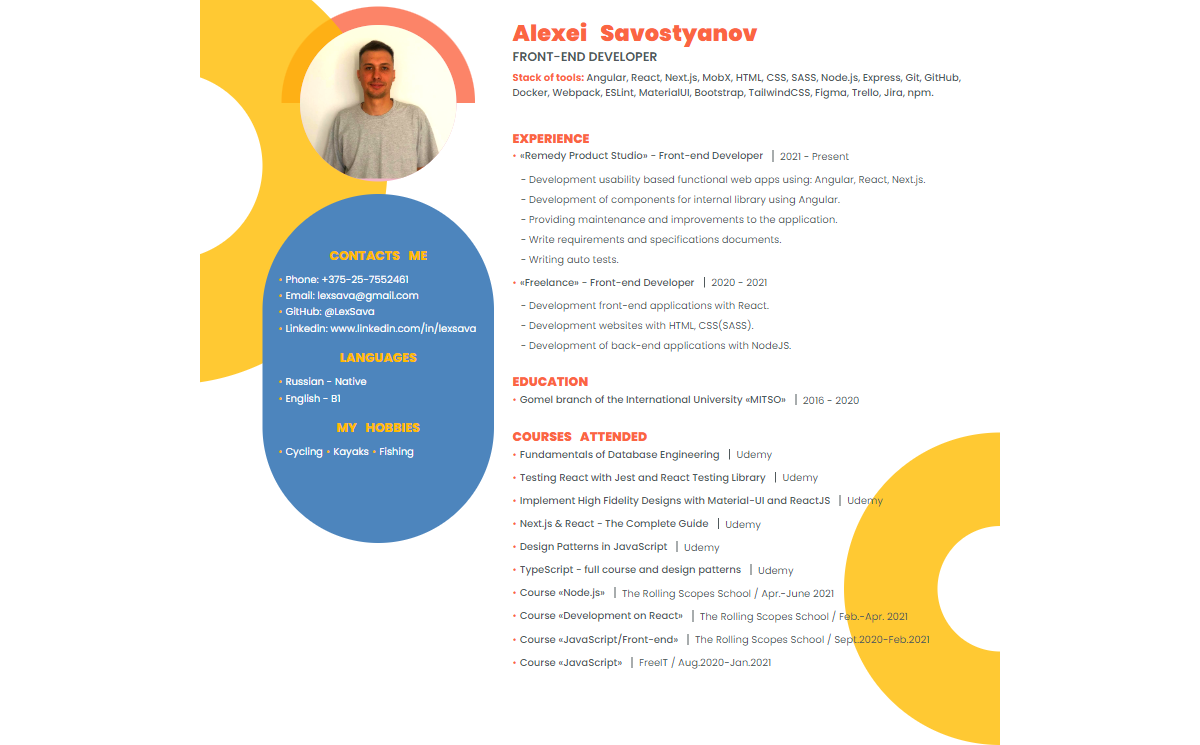
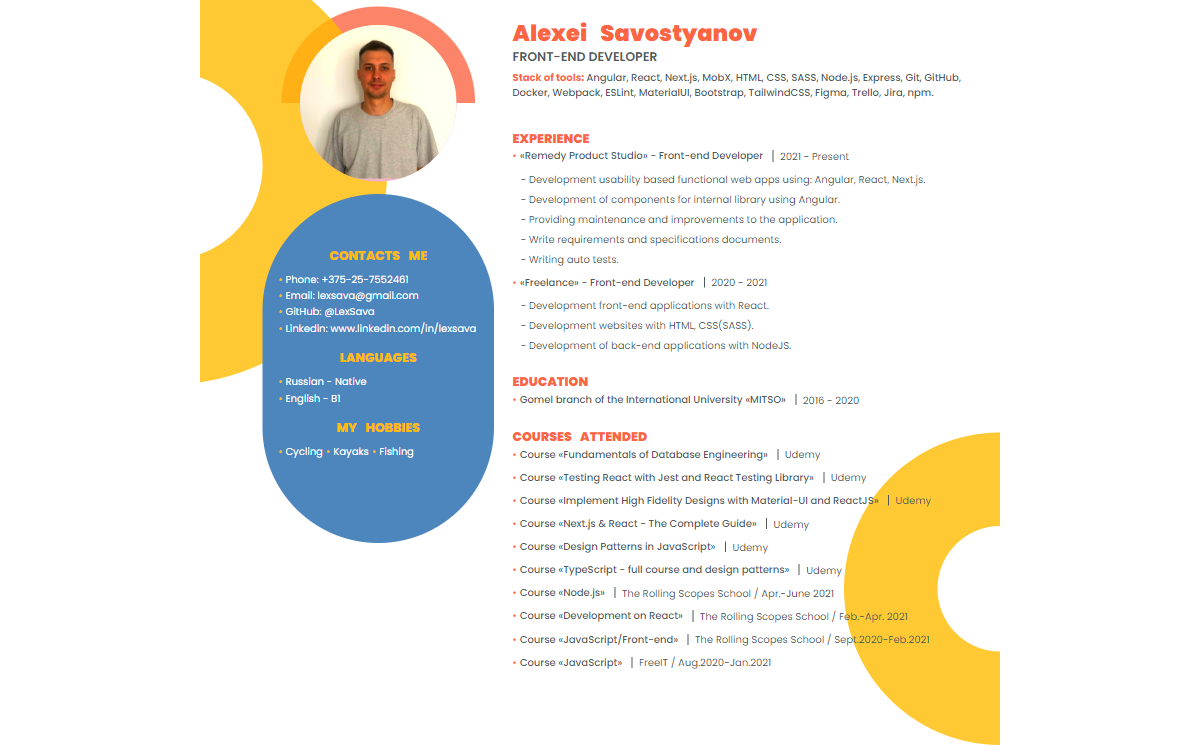
feat: update CV

Changed region(s): [[0.4317, 0.5866, 0.7708, 0.7718]]

diff --git a/index.html b/index.html
@@ -131,7 +131,7 @@
           <div class="course_block">
             <div class="course">
               <div class="marker__course">&bull;</div>
-              <p class="course_name">Fundamentals of Database Engineering</p>
+              <p class="course_name">Course «Fundamentals of Database Engineering»</p>
               <div class="partition"></div>
               <p class="course_community">Udemy</p>
              
@@ -141,7 +141,7 @@
           <div class="course_block">
             <div class="course">
               <div class="marker__course">&bull;</div>
-              <p class="course_name">Testing React with Jest and React Testing Library</p>
+              <p class="course_name">Course «Testing React with Jest and React Testing Library»</p>
               <div class="partition"></div>
               <p class="course_community">Udemy</p>
              
@@ -151,7 +151,7 @@
           <div class="course_block">
             <div class="course">
               <div class="marker__course">&bull;</div>
-              <p class="course_name">Implement High Fidelity Designs with Material-UI and ReactJS</p>
+              <p class="course_name">Course «Implement High Fidelity Designs with Material-UI and ReactJS»</p>
               <div class="partition"></div>
               <p class="course_community">Udemy</p>
              
@@ -161,7 +161,7 @@
           <div class="course_block">
             <div class="course">
               <div class="marker__course">&bull;</div>
-              <p class="course_name">Next.js & React - The Complete Guide</p>
+              <p class="course_name">Course «Next.js & React - The Complete Guide»</p>
               <div class="partition"></div>
               <p class="course_community">Udemy</p>
             </div>
@@ -170,7 +170,7 @@
           <div class="course_block">
             <div class="course">
               <div class="marker__course">&bull;</div>
-              <p class="course_name">Design Patterns in JavaScript</p>
+              <p class="course_name">Course «Design Patterns in JavaScript»</p>
               <div class="partition"></div>
               <p class="course_community">Udemy</p>
             </div>
@@ -179,7 +179,7 @@
           <div class="course_block">
             <div class="course">
               <div class="marker__course">&bull;</div>
-              <p class="course_name">TypeScript - full course and design patterns</p>
+              <p class="course_name">Course «TypeScript - full course and design patterns»</p>
               <div class="partition"></div>
               <p class="course_community">Udemy</p>
             </div>
